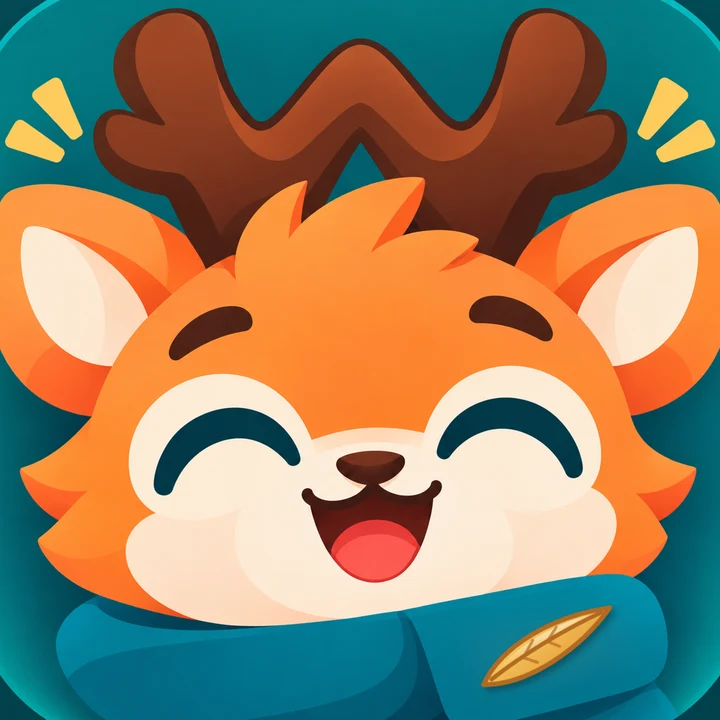
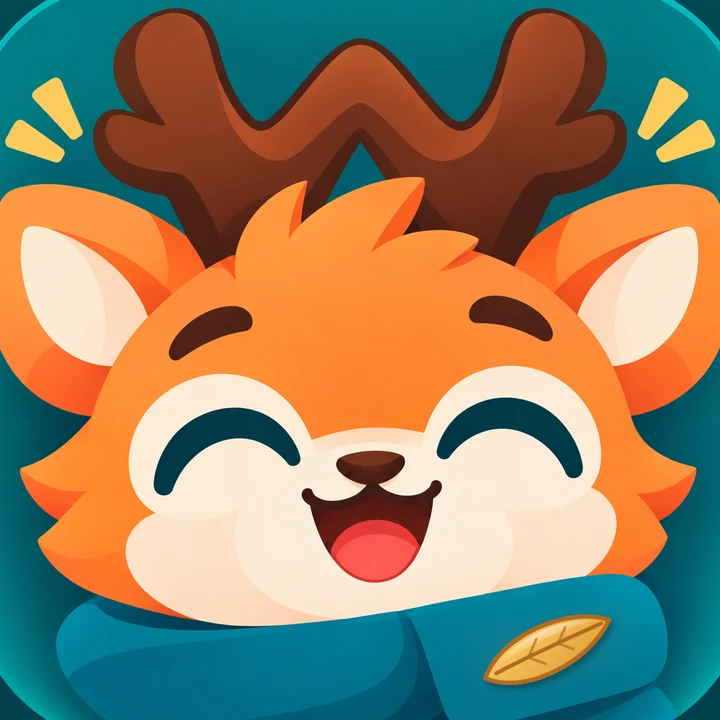
Wordmark: willow leaf placed exactly on the i-dot
Measured the font's own i-dot (centre 0.119em across, 0.672em above the
baseline) and centred an almond-shaped leaf there, tilted 45 degrees, so it
reads as a natural dot at small sizes and as a leaf at large ones. The
scarf pin uses the same leaf shape. Positions live in LEAF_DOT and are
shared with pnpm brand.

Claude-Session: https://claude.ai/code/session_01MDW7NKEGobk5YHcn6Uk42U

Changed region(s): [[0.6722, 0.825, 0.8556, 0.9778]]

diff --git a/scripts/make-brand.ts b/scripts/make-brand.ts
@@ -16,7 +16,7 @@
  */
 import { existsSync, readFileSync, writeFileSync } from "node:fs";
 import { chromium } from "@playwright/test";
-import { ANTLER, WORD_COLORS, antlerPaths, leafSvg } from "../src/lib/brand/antler";
+import { ANTLER, WORD_COLORS, antlerPaths, leafDotStyle, leafSvg } from "../src/lib/brand/antler";
 
 const OUT = "public/brand";
 const C = { cyanA: "#0A6E87", cyanB: "#1FB3CB", navy: "#102D40", ink: "#0B1D28", cyan: "#087F9B", cyanDark: "#20B9D0", ice: "#E4F7FA", cloud: "#F5F9FC" };
@@ -38,7 +38,11 @@ const plain = (variant: "full" | "simple", fg: string, bg: string) => `<svg xmln
 
 const wordmarkSvg = (dark: boolean) => {
   const c = dark ? WORD_COLORS.dark : WORD_COLORS.light;
-  const leaf = leafSvg(dark ? "ld" : "ll").replace("<svg ", '<svg x="47" y="3" width="15" height="6" transform="rotate(-48 54.5 6)" ');
+  const cx = 49 + 0.119 * 40;
+  const cy = 40 - 0.672 * 40;
+  const w = 0.26 * 40;
+  const h = 0.1092 * 40;
+  const leaf = `<g transform="rotate(-45 ${cx} ${cy})">${leafSvg(dark ? "ld" : "ll").replace("<svg ", `<svg x="${cx - w / 2}" y="${cy - h / 2}" width="${w}" height="${h}" `)}</g>`;
   return `<svg xmlns="http://www.w3.org/2000/svg" width="236" height="48" viewBox="0 0 236 48">
 <g transform="translate(0 4) scale(0.8)" fill="none" stroke-linecap="round" stroke-linejoin="round">${antlerPaths(c.antler, "full", ANTLER.glyph)}</g>
 <text x="49" y="40" font-family="'Plus Jakarta Sans', 'Inter', system-ui, sans-serif" font-weight="800" font-size="40" letter-spacing="-1.4" fill="${c.ink}">ıllo<tspan fill="${c.prep}">Prep</tspan></text>${leaf}</svg>`;
@@ -118,7 +122,7 @@ async function main() {
   let leafN = 0;
   const word = (dark: boolean, px: number) => {
     const c = dark ? WORD_COLORS.dark : WORD_COLORS.light;
-    const leaf = leafSvg(`w${leafN++}`, "position:absolute;top:0.06em;left:calc(50% - 0.19em);width:0.38em;transform:rotate(-48deg)");
+    const leaf = leafSvg(`w${leafN++}`, leafDotStyle);
     return `<span style="display:inline-flex;align-items:flex-end;font:800 ${px}px/1 'Plus Jakarta Sans';letter-spacing:-0.035em;color:${c.ink}">
 <svg viewBox="2 6 60 50" style="height:0.98em;width:auto;margin-right:0.05em" fill="none" stroke-linecap="round" stroke-linejoin="round">${antlerPaths(c.antler, "full", ANTLER.glyph)}</svg><span style="position:relative;display:inline-block">ı${leaf}</span><span>llo</span><span style="color:${c.prep}">Prep</span></span>`;
   };

diff --git a/src/lib/brand/antler.ts b/src/lib/brand/antler.ts
@@ -29,11 +29,13 @@ export function antlerPaths(color: string, variant: "full" | "simple" = "full", 
 
 /**
  * The willow leaf: the dot of the "i" in the wordmark and the pin on Willo's
- * scarf. Drawn on a 100×40 grid; gold enamel with an amber-brown rim.
+ * scarf. Drawn on a 100×42 grid; gold enamel with an amber-brown rim.
+ * In the wordmark it sits exactly where the font's i-dot would be
+ * (centre 0.119em across, 0.238em below the top of a line-height-1 box).
  */
 export const LEAF = {
-  outline: "M4 24 C24 6 62 2 97 12 C70 28 30 36 4 24 Z",
-  vein: "M10 23 C38 16 66 13 91 12.5",
+  outline: "M4 22 C24 0 74 0 96 20 C74 40 24 44 4 22 Z",
+  vein: "M12 22 C40 20 70 20 90 20",
   fillFrom: "#F9D166",
   fillTo: "#E49A35",
   rim: "#B26A22",
@@ -41,8 +43,12 @@ export const LEAF = {
 
 /** Standalone leaf SVG markup (for scripts). `id` keeps gradient ids unique. */
 export function leafSvg(id: string, style = "") {
-  return `<svg xmlns="http://www.w3.org/2000/svg" viewBox="0 0 100 40" overflow="visible" style="${style}"><defs><linearGradient id="${id}" x1="0" y1="0" x2="1" y2="1"><stop offset="0" stop-color="${LEAF.fillFrom}"/><stop offset="1" stop-color="${LEAF.fillTo}"/></linearGradient></defs><path d="${LEAF.outline}" fill="url(#${id})" stroke="${LEAF.rim}" stroke-width="3.5" stroke-linejoin="round"/><path d="${LEAF.vein}" fill="none" stroke="${LEAF.rim}" stroke-width="3" stroke-linecap="round"/></svg>`;
+  return `<svg xmlns="http://www.w3.org/2000/svg" viewBox="0 0 100 42" overflow="visible" style="${style}"><defs><linearGradient id="${id}" x1="0" y1="0" x2="1" y2="1"><stop offset="0" stop-color="${LEAF.fillFrom}"/><stop offset="1" stop-color="${LEAF.fillTo}"/></linearGradient></defs><path d="${LEAF.outline}" fill="url(#${id})" stroke="${LEAF.rim}" stroke-width="3.4" stroke-linejoin="round"/><path d="${LEAF.vein}" fill="none" stroke="${LEAF.rim}" stroke-width="3.6" stroke-linecap="round"/></svg>`;
 }
+
+/** Where the leaf sits on the dotless i (em units), shared by the app and the brand script. */
+export const LEAF_DOT = { width: 0.26, height: 0.1092, left: -0.011, top: 0.1834, rotate: -45 } as const;
+export const leafDotStyle = `position:absolute;left:${LEAF_DOT.left}em;top:${LEAF_DOT.top}em;width:${LEAF_DOT.width}em;height:${LEAF_DOT.height}em;transform:rotate(${LEAF_DOT.rotate}deg)`;
 
 /** Wordmark colours: the antler W takes the mascot's antler brown. */
 export const WORD_COLORS = {

diff --git a/src/components/brand/antler-w.tsx b/src/components/brand/antler-w.tsx
@@ -1,7 +1,7 @@
 import { cn } from "@/lib/utils";
 
 import { useId } from "react";
-import { ANTLER, LEAF } from "@/lib/brand/antler";
+import { ANTLER, LEAF, LEAF_DOT } from "@/lib/brand/antler";
 
 export { ANTLER, LEAF, antlerPaths, leafSvg } from "@/lib/brand/antler";
 
@@ -44,15 +44,15 @@ export function AppMark({ className, simple = false }: { className?: string; sim
 export function WillowLeaf({ className, style }: { className?: string; style?: React.CSSProperties }) {
   const id = `leaf-${useId().replace(/[^a-zA-Z0-9]/g, "")}`;
   return (
-    <svg viewBox="0 0 100 40" overflow="visible" className={className} style={style} aria-hidden>
+    <svg viewBox="0 0 100 42" overflow="visible" className={className} style={style} aria-hidden>
       <defs>
         <linearGradient id={id} x1="0" y1="0" x2="1" y2="1">
           <stop offset="0" stopColor={LEAF.fillFrom} />
           <stop offset="1" stopColor={LEAF.fillTo} />
         </linearGradient>
       </defs>
-      <path d={LEAF.outline} fill={`url(#${id})`} stroke={LEAF.rim} strokeWidth={3.5} strokeLinejoin="round" />
-      <path d={LEAF.vein} fill="none" stroke={LEAF.rim} strokeWidth={3} strokeLinecap="round" />
+      <path d={LEAF.outline} fill={`url(#${id})`} stroke={LEAF.rim} strokeWidth={3.4} strokeLinejoin="round" />
+      <path d={LEAF.vein} fill="none" stroke={LEAF.rim} strokeWidth={3.6} strokeLinecap="round" />
     </svg>
   );
 }
@@ -67,7 +67,10 @@ export function Wordmark({ className }: { className?: string }) {
       <AntlerW glyph className="me-[0.05em] h-[0.98em] w-auto translate-y-[0.02em] text-[var(--antler)]" />
       <span className="relative inline-block">
         {WORD[0]}
-        <WillowLeaf className="absolute top-[0.06em] left-[calc(50%-0.19em)] w-[0.38em] -rotate-[48deg]" />
+        <WillowLeaf
+          className="absolute"
+          style={{ left: `${LEAF_DOT.left}em`, top: `${LEAF_DOT.top}em`, width: `${LEAF_DOT.width}em`, height: `${LEAF_DOT.height}em`, transform: `rotate(${LEAF_DOT.rotate}deg)` }}
+        />
       </span>
       <span>{WORD[1]}</span>
       <span className="text-primary">{WORD[2]}</span>
